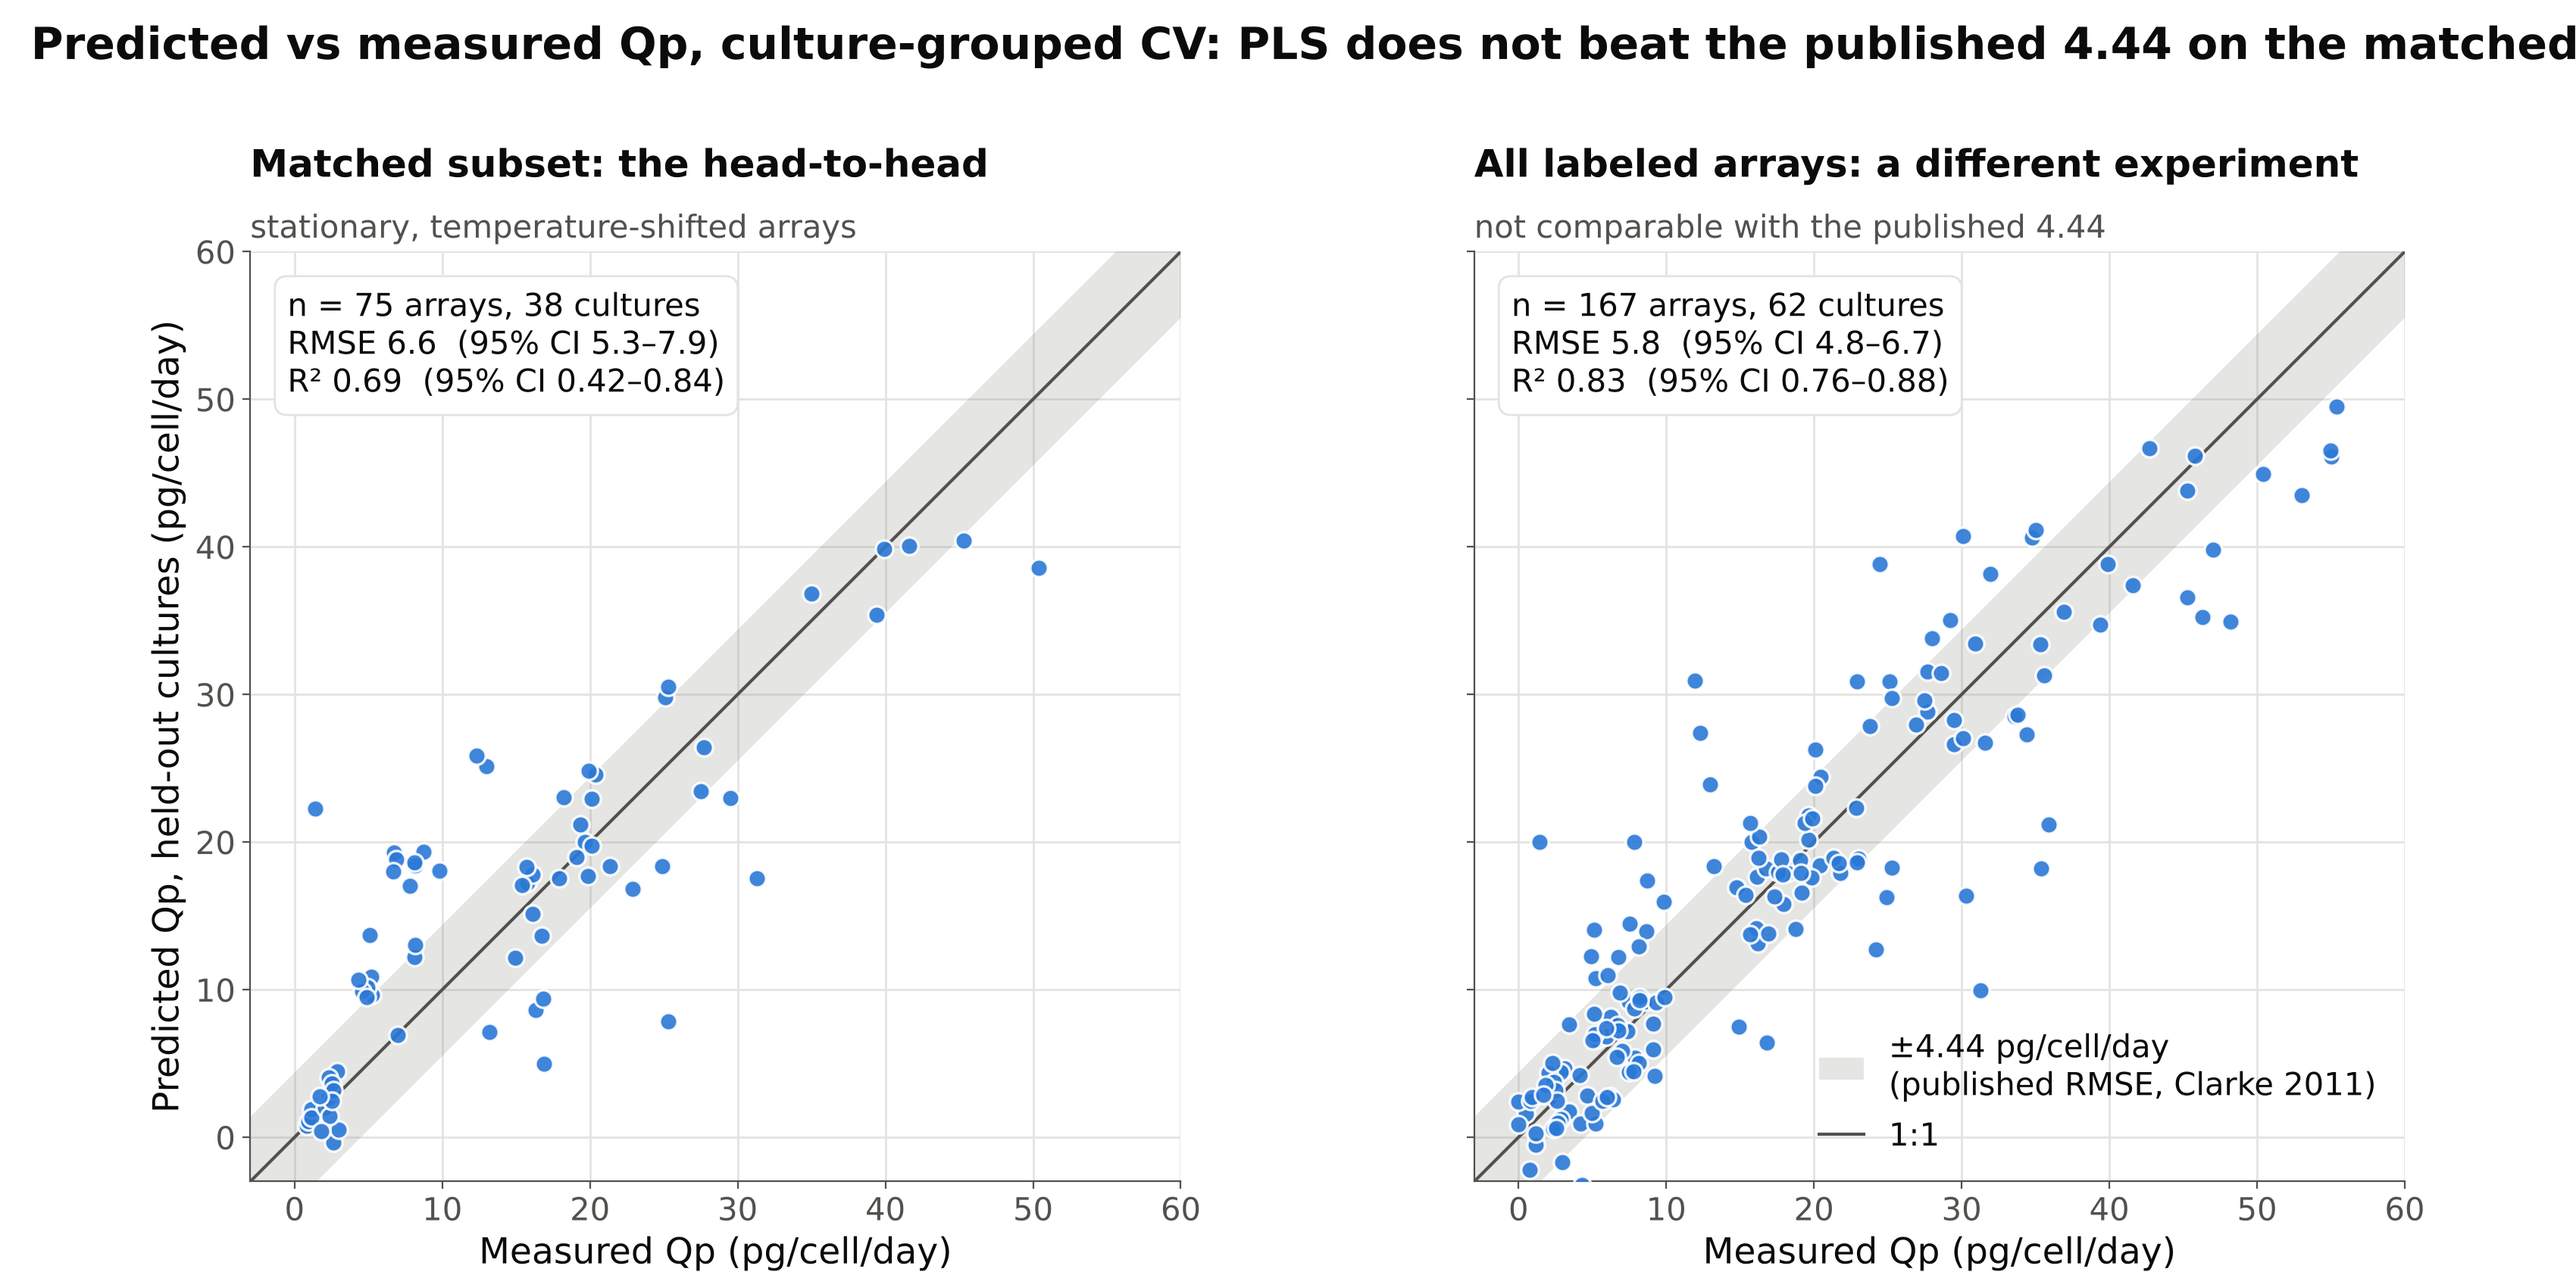
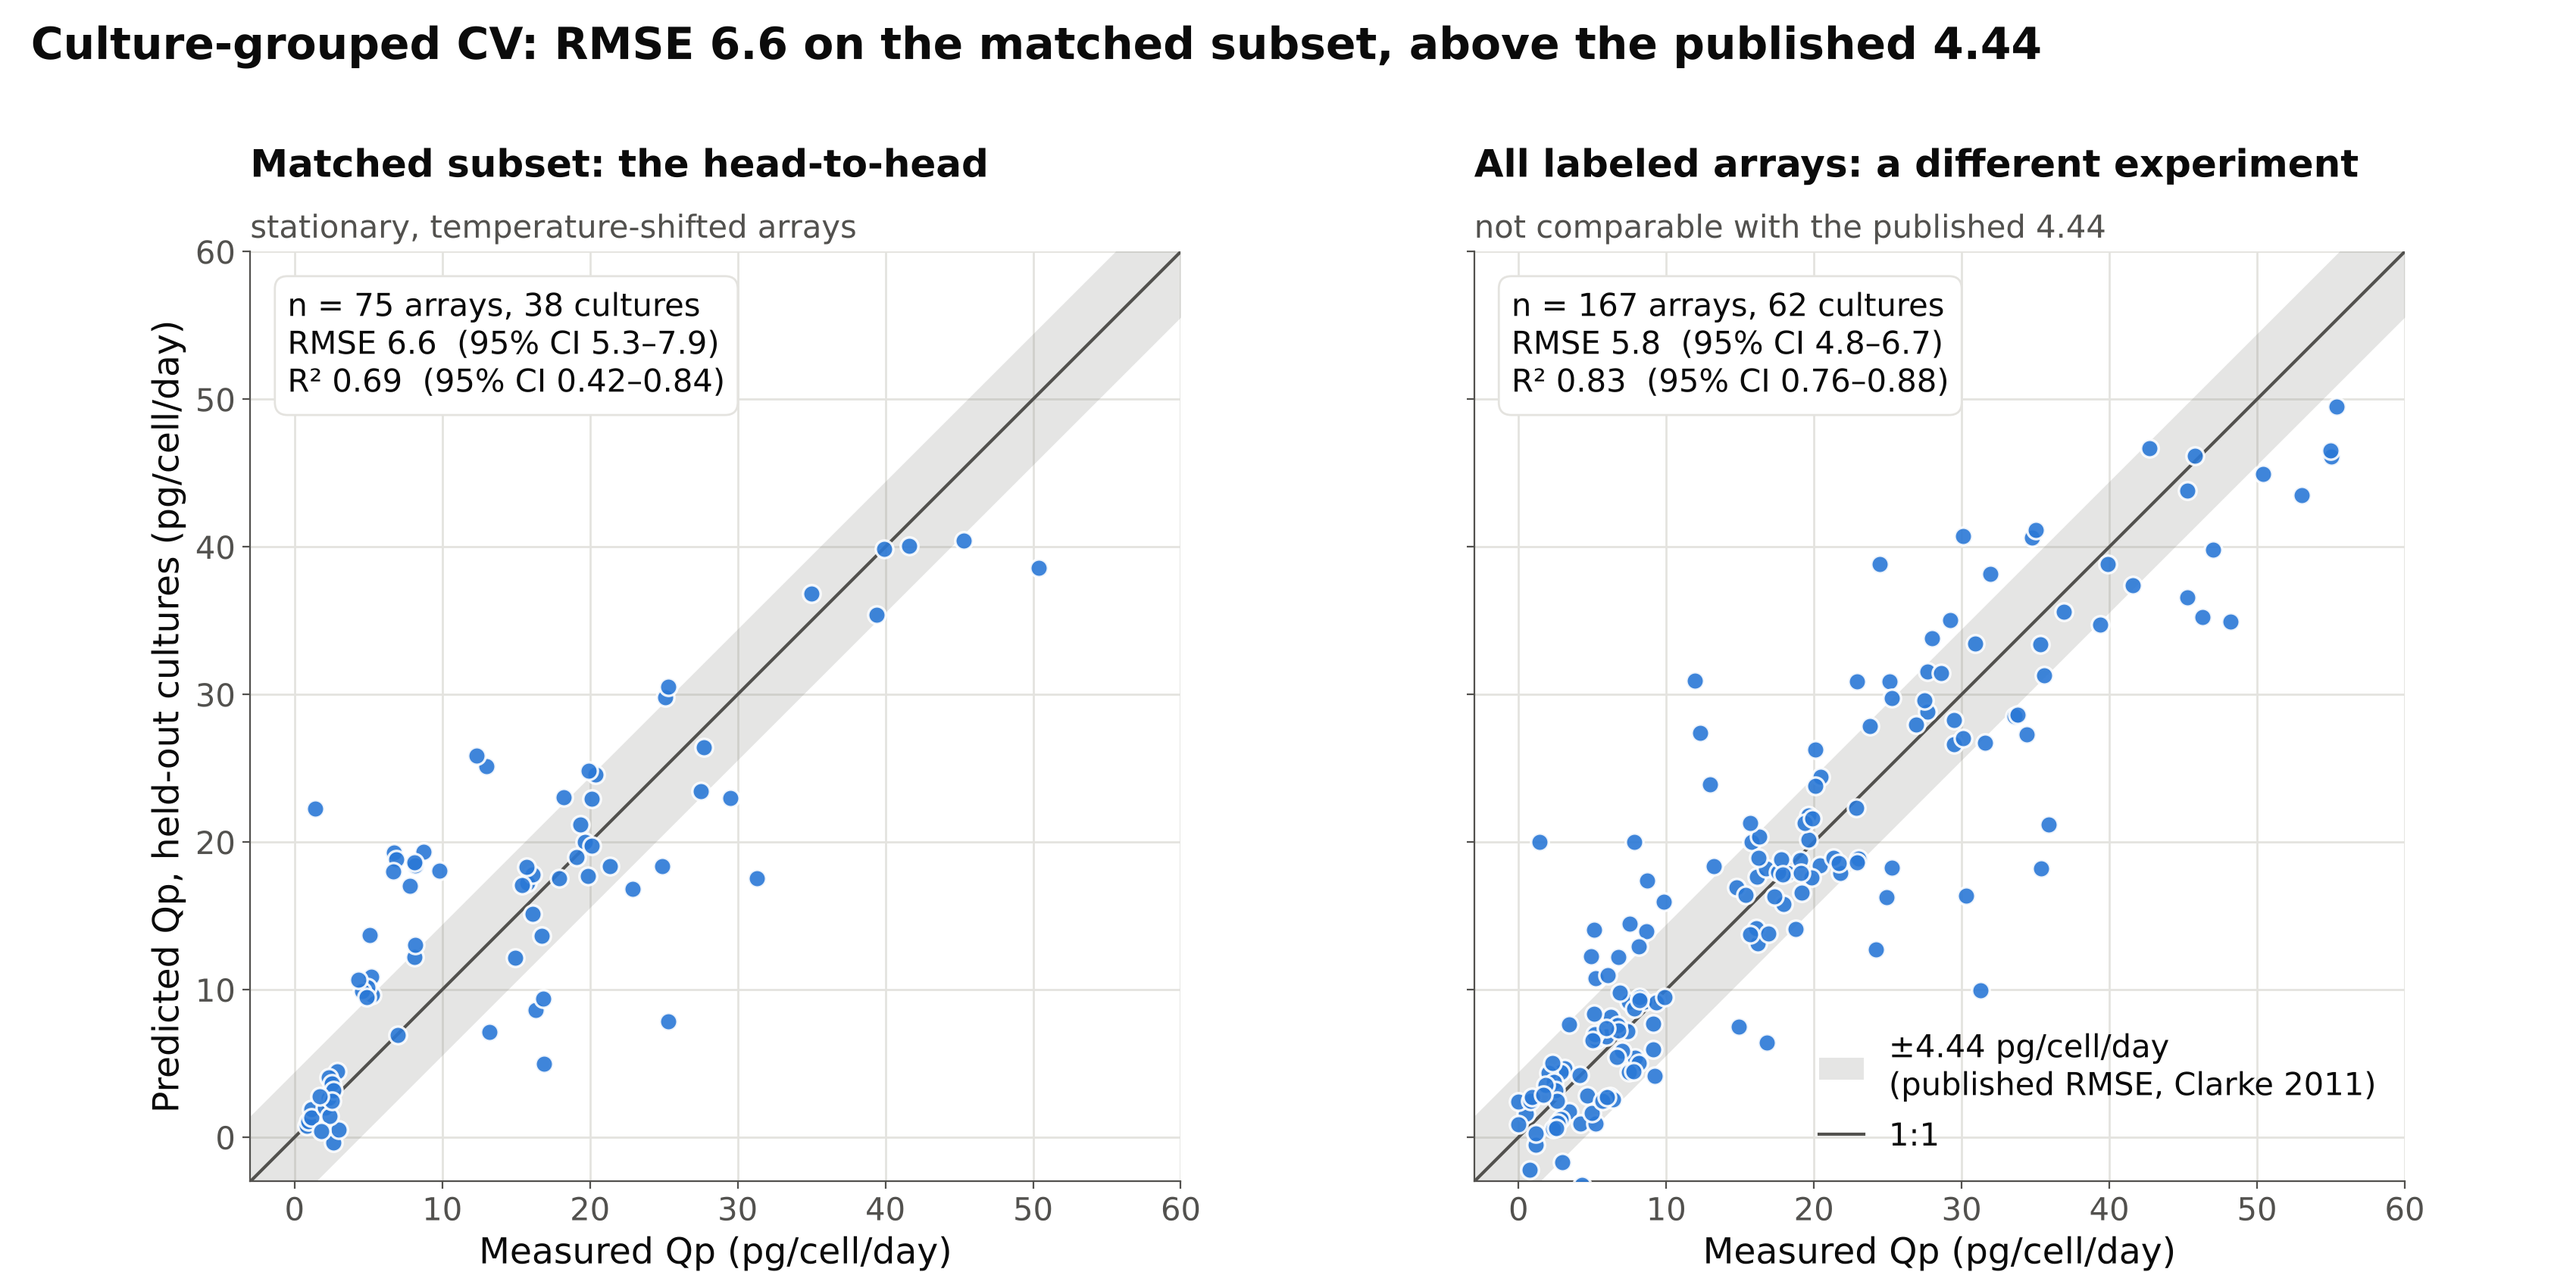
Final main-analysis results, figures 1-2, README, requirements, provenance
Claude-Session: https://claude.ai/code/session_01LY7Te5Uv5rJv5aH5gXDEKW

Changed region(s): [[0.0, 0.0, 1.0, 0.0619]]

diff --git a/src/figures.py b/src/figures.py
@@ -147,8 +147,9 @@ def fig_leakage(m, p):
         ax.bar(x, pts, width=0.62, color=[s[3] for s in schemes], edgecolor=SURFACE, linewidth=2, zorder=2)
         ax.errorbar(x, pts, yerr=err, fmt="none", ecolor=INK, elinewidth=2, capsize=6, capthick=2, zorder=3)
         for xi, v in zip(x, vals):
-            ax.text(xi, v[2] + (0.35 if metric == "rmse" else 0.012), fmt.format(v[0]), ha="center", va="bottom",
-                    fontsize=17, fontweight="bold")
+            # value inside the bar, clear of the CI whisker and the reference line
+            ax.text(xi - 0.17, v[0] * 0.5, fmt.format(v[0]), ha="center", va="center", fontsize=19,
+                    fontweight="bold", color=SURFACE)
         ax.set_xticks(x)
         ax.set_xticklabels([s[2] for s in schemes])
         ax.set_title(title, fontsize=18)

diff --git a/src/pretrain.py b/src/pretrain.py
@@ -65,6 +65,7 @@ def _torch():
     import torch
 
     torch.set_num_threads(4)
+    torch.set_flush_denormal(True)  # weight decay drives values into denormals, which are ~100x slower on CPU
     return torch
 
 

diff --git a/DECISIONS.md b/DECISIONS.md
@@ -80,3 +80,31 @@ Running log of every autonomous choice. Times are UTC. Newest entries at the bot
 - **Hyperparameters:** chosen by a 3-fold inner CV inside each training fold, grouped by the same unit as the outer split. Feature selection, scaling and encoder fitting are pipeline steps refit in every fold.
 - **Encoders:** raw = 1,000 highest-variance probesets (variance computed in the training fold); pathway = 44 Hallmark scores (mean of z-scored member probesets, z-scoring fitted in the training fold); coexpr = 40 within-fold coexpression modules.
 - **Primary model, named in advance:** PLS on the raw encoder for regression (mirrors the published method), logistic regression on the raw encoder for classification. The figures show these, whichever model scores best.
+
+### 2026-11-15 02:40 — The published baseline is not beaten; reported as is
+- **Found:** On the matched subset, culture-grouped nested-CV PLS gives RMSE 6.6 pg/cell/day, above the published 4.44. Held-out-experiment RMSE is 11.1.
+- **Decision:** Report it plainly. No search over models, feature counts or subset definitions to get under 4.44. PLS on the raw encoder was named as the head-to-head model before the run; elastic net on the same subset is listed as a secondary row only.
+- **Reasoning:** Any number reached by trying variants until one wins is not a head-to-head. The published figure also comes from a protocol I cannot reproduce exactly (different sample list, jackknife gene selection, cross-model validation whose handling of replicate cultures the abstract does not state).
+
+### 2026-11-15 02:45 — Adversarial checks added to the main run
+- **Process-covariate baseline:** Qp predicted from temperature, growth rate, cell density and viability alone (fixed small GBM, no expression). Answers "does the array add anything over the batch record?". Titre is excluded because Qp is computed from it.
+- **Random-gene-set null for the Δ decode:** each pathway's |Δ| is compared with 1,000 random probe sets of the same size. Cell-line identity makes arbitrary gene sets differ between high- and low-Qp arrays, so a bootstrap interval that excludes zero is weak evidence on its own.
+- **Within-experiment Δ:** the decode repeated after removing each experiment's mean from both the pathway scores and Qp, so it cannot be driven by which cell line an array comes from.
+- **Repeated partitions for the leakage figure:** the array-level and culture-level bars are means over 10 random partitions, with a cluster bootstrap over cultures. A single partition moved RMSE by about ±0.7, which is larger than the array-vs-culture difference.
+
+### 2026-11-15 03:00 — Leakage figure shows four split units
+- **Decision:** `fig2_leakage.png` compares arrays, cultures, experiments and families of related experiments, not just grouped vs ungrouped.
+- **Reasoning:** On these data, grouping by culture barely changes the estimate, because the leak runs through sister flasks of the same experiment. A two-bar figure would have shown "no leakage", which is the wrong lesson. The real step is at the experiment level.
+
+### 2026-11-15 03:10 — §6 adapted to the labeled sample that exists
+- **Found:** Only 62 labeled cultures exist, so train sizes of 20–100 cultures are not possible.
+- **Decision:** Hold out 15 cultures; train on 10/20/30/40/47 cultures; 5 seeds. A second panel holds out 5 whole experiments and trains on 10/20/30/40 cultures. Everything on CPU.
+- **In-fold corpus:** every array not belonging to a held-out group, labeled or not, labels never used. Asserted in code.
+- **Stretch (pooling other public CHO data) skipped:** of the related accessions in the brief, only GSE37251 is CHO expression (30 arrays, a different array design, GPL15441). GSE296860, GSE179451 and E-MTAB-8060 are unrelated organisms or studies. Thirty arrays on another platform would add 10% to the corpus and a platform batch effect; not worth the harmonisation work.
+
+### 2026-11-15 04:55 — Pretraining protocol revised once, after seeing the first run
+- **First protocol (v1):** encoder with no normalisation on `z`, fine-tuned with weight decay 1e-4 and no dropout. Result: pretraining made test RMSE worse at every training size (for example 17.9 vs 12.4 at 10 cultures), and the transductive arm was worse than predicting the training mean. Files kept in `results/superseded/`.
+- **Diagnosis (training-set quantities only):** both networks reach zero training error within about 40 epochs, and the pretrained encoder emits activations about 40 times larger than a fresh one (SD 4.4 vs 0.11). v1 was measuring an unstable fine-tune, not the quality of the representation.
+- **Revision (v2), applied identically to every arm:** LayerNorm on `z`; input dropout 0.2 and weight decay 1e-2 during supervised training; one extra arm that freezes the in-fold encoder and fits ridge regression on `z` (a linear probe).
+- **Commitment made before v2 results exist:** v2 is final. Whatever it shows is what gets reported, and v1 is disclosed next to it. No third protocol.
+- **Risk I am accepting:** changing a protocol after seeing test results is a forking path. Disclosing both runs is the mitigation.

diff --git a/README.md b/README.md
@@ -1,0 +1,63 @@
+# CHO proof of concept: Qp from transcriptomics on GSE30321
+
+Predicts cell-specific productivity (Qp) of CHO production cultures from 2011-era microarray
+expression, with leakage-safe cross-validation, and compares against the published baseline
+(Clarke et al. 2011, J Biotechnol 151:159).
+
+**Read `REPORT.md` first.** It holds the results, the claims ledger and the list of things
+this work does not show. `DECISIONS.md` logs every choice made along the way.
+
+## Reproduce everything
+
+```bash
+pip install -r requirements.txt && python cho_poc.py --all
+```
+
+That one command runs, in order: the offline self-test, the downloads (GEO, ArrayExpress,
+MSigDB; about 11 MB into `raw/`), the full analysis, the pretraining experiment and the figures.
+Expect about 45 minutes on 4 CPU cores; no GPU is needed. Seeds are fixed.
+
+Individual stages:
+
+| command | what it does | time |
+|---|---|---|
+| `python cho_poc.py --self-test` | synthetic checks of the parser, the no-leak guard, bootstrap, encoders, Δ decode | 10 s |
+| `python cho_poc.py --download` | fetches sources, checks SHA256 against pinned values, writes `data/PROVENANCE.md` | 20 s |
+| `python cho_poc.py --run` | grouped-CV metrics, matched baseline, leakage comparison, Δ decode | 25 min |
+| `python cho_poc.py --pretrain` | self-supervised pretraining learning curves (needs `torch`) | 20 min |
+| `python cho_poc.py --figures` | slide figures from `results/` | 10 s |
+
+Add `--quick` for a smoke run with a smaller model grid.
+
+## Outputs
+
+| file | content |
+|---|---|
+| `results/metrics.csv` | every reported metric with its 95% CI, split scheme, encoder, model and sample counts |
+| `results/delta_pathways.csv` | Δ decode: pathways ranked by top-quartile minus bottom-quartile Qp, with driver genes |
+| `results/culture_map.csv` | derived culture and experiment ID for each of the 295 arrays |
+| `results/oof_predictions.csv` | out-of-fold predictions behind every metric |
+| `results/pretrain_*.csv` | pretraining runs, per-arm summary, paired differences |
+| `figures/fig1_roc.png`, `fig1_scatter.png` | the two slide figures |
+| `figures/fig2_leakage.png` | the same model under four hold-out units |
+| `figures/fig3_learning_curve.png` | pretrained vs from scratch |
+| `data/PROVENANCE.md` | URLs, SHA256, timestamps, row and column counts |
+
+## Layout
+
+- `cho_poc.py` — parser, culture derivation, encoders, nested grouped CV, bootstrap, Δ decode, CLI
+- `src/pretrain.py` — masked-feature denoising autoencoder experiment
+- `src/figures.py` — plotting only; no model is fitted there
+- `raw/`, `data/` — downloads; git-ignored except `data/PROVENANCE.md`
+
+## Guarantees enforced in code
+
+- Every grouped split passes `assert_no_group_leak`; the assertion stays in the committed code.
+- Scaling, feature selection, encoders and hyperparameters are fitted inside the training fold.
+- The in-fold pretraining corpus is asserted to contain no array from a held-out group.
+
+## Scope
+
+Single modality: transcriptomics on a 3,592-probeset custom array. No proteomics, metabolomics,
+glycan data or paired small/large-scale runs. Nothing here tests multi-omic fusion, latent
+dynamics or scale-up prediction.
